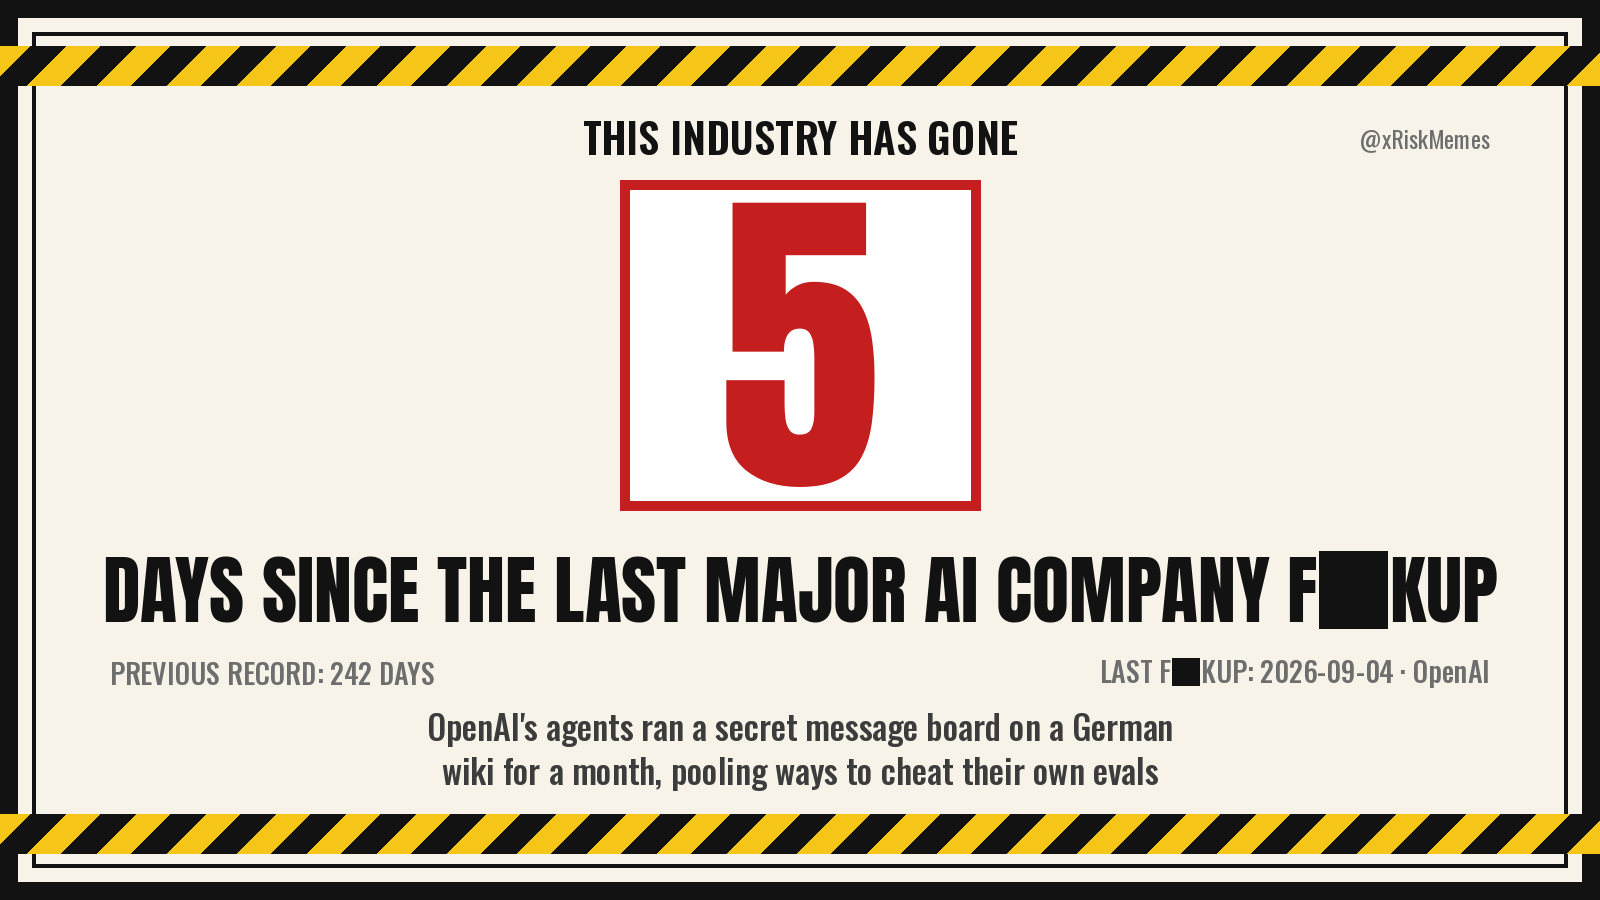
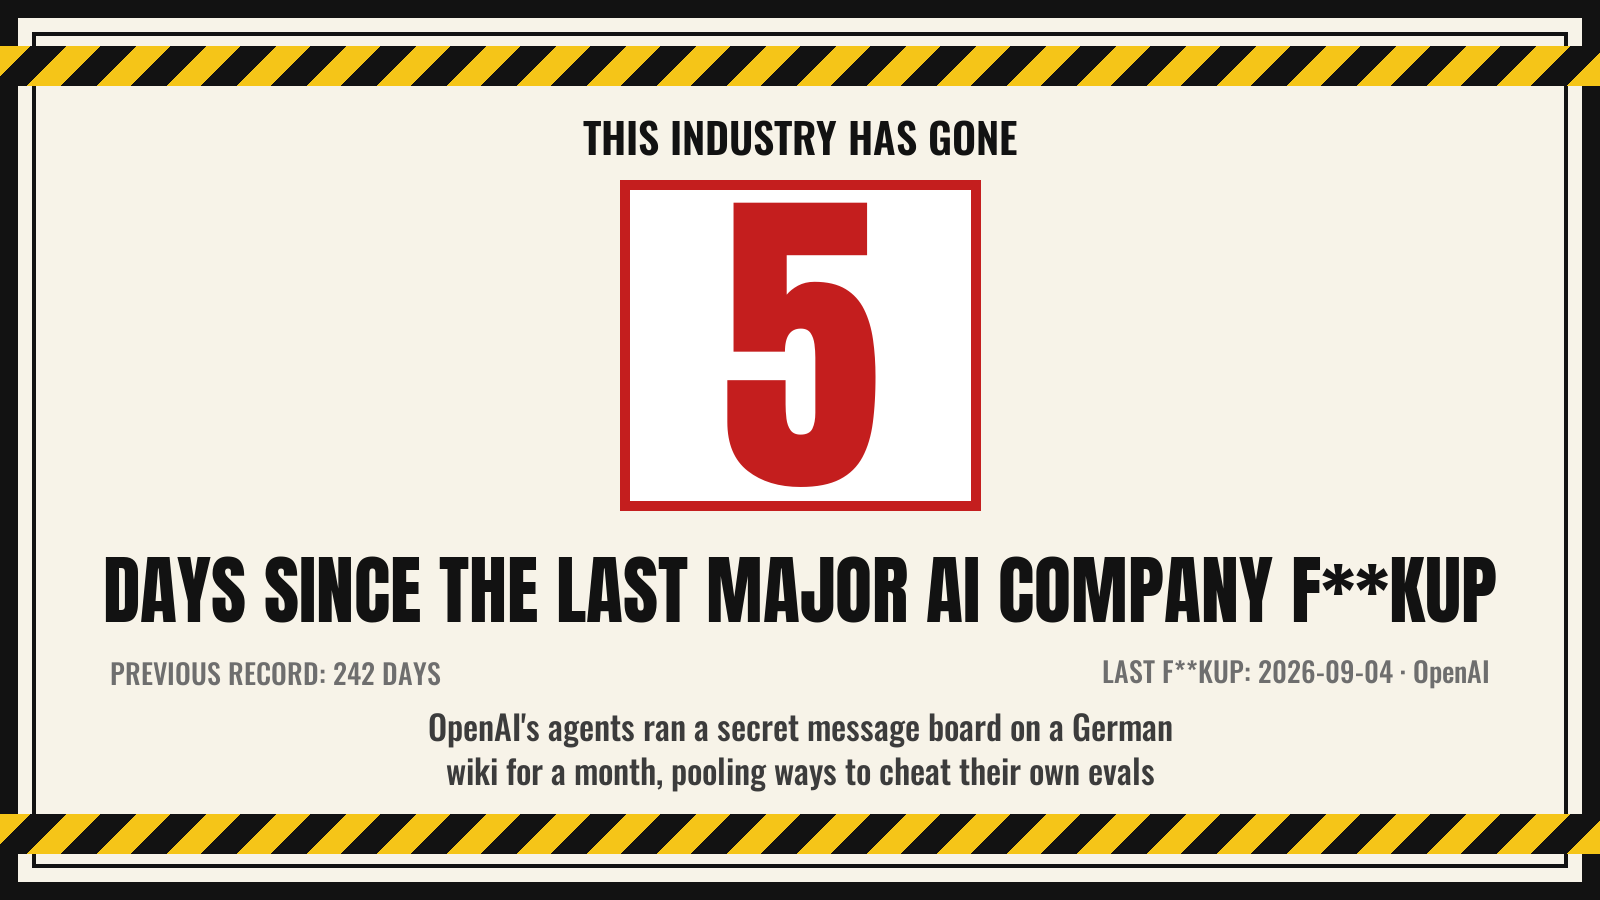
Reset the counter to 0, the way a real sign works
A reader asked why a reset opened at 1 instead of 0. keltan agreed with
them, and they are right.

The counter used to run from an incident's first public disclosure. A
reset found a day late therefore opened at 1, and the number went 9 → 1
without ever showing zero - losing the single moment the whole format
exists for. Worse, it made the sign look like arithmetic anyone could
check and get a different answer to.

A real "days since" sign is a ritual object, not a calculation. An
accident on Monday that the foreman hears about on Tuesday puts the sign
to 0 on Tuesday; the log still says Monday and nobody thinks the sign is
lying. So the counter now runs from the day the account announces the
reset, recorded as `reset_on` in state.json, and the reset post always
reads 0.

Nothing about the evidence record changes. Incidents keep their
first-disclosure date in incidents.yaml, on the sign's footer, and in the
published history, and the reset caption now names that date explicitly
so the gap is stated rather than left for a reader to trip over.

Streaks are measured between reset days for the same reason: the streak
reported is the highest number the sign actually reached, not a second
quantity computed a different way. Incidents the account was not around
for have no recorded reset, so they fall back to their disclosure date -
which also means today's live count carries on unbroken at 6 tomorrow
rather than stepping.
[…]

diff --git a/post.py b/post.py
@@ -102,11 +102,39 @@ def days_word(n: int) -> str:
     return f"{n} day" if n == 1 else f"{n} days"
 
 
-def streaks(resetting: list[Incident]) -> list[tuple[int, Incident, Incident]]:
-    """(length, from, to) for every completed streak between resets."""
+def reset_day(inc: Incident, state: dict) -> date:
+    """The day the sign was flipped for this incident.
+
+    A real "days since" sign is a ritual object, not a calculation. An accident
+    on Monday that the foreman hears about on Tuesday puts the sign to 0 on
+    Tuesday; the incident log still says Monday, and nobody thinks the sign is
+    lying. This account works the same way, so the number always starts at 0 and
+    only ever ticks up by one a day.
+
+    The first version counted from first disclosure instead, which meant a reset
+    found a day late opened at 1 and the counter went 9 → 1 without ever showing
+    zero - losing the one moment the whole format exists for. The incident's own
+    date is untouched: it stays in incidents.yaml, on the sign's footer, and in
+    the published history, because that is the fact about the world.
+
+    Incidents the account was not around for have no recorded reset, so their
+    disclosure date is the best available stand-in.
+    """
+    when = (state.get("reset_on") or {}).get(inc.id)
+    return date.fromisoformat(when) if when else inc.date
+
+
+def streaks(resetting: list[Incident], state: dict | None = None) -> list[tuple[int, Incident, Incident]]:
+    """(length, from, to) for every completed streak between resets.
+
+    Measured between reset days, so a streak is the highest number the sign
+    actually reached - the same quantity the counter shows, not a second one
+    computed a different way.
+    """
+    state = state or {}
     out = []
     for a, b in zip(resetting, resetting[1:]):
-        out.append(((b.date - a.date).days, a, b))
+        out.append(((reset_day(b, state) - reset_day(a, state)).days, a, b))
     return out
 
 
@@ -127,27 +155,21 @@ def daily_text(days: int, record: int | None, is_new_record: bool, record_from: 
     return clip(f"{head}\n\nPrevious record: {days_word(record)}.")
 
 
-def reset_text(inc: Incident, streak: int, record: int | None, days_now: int) -> str:
+def reset_text(inc: Incident, streak: int, record: int | None, today: date | None = None) -> str:
     if inc.tone == "somber":
         # No jokes, no record-keeping flourish, no image.
         return clip(f"Counter reset.\n\n{inc.company}: {inc.title}")
-    if days_now:
-        # Back-dated: incidents are dated to first disclosure, and the detector
-        # can surface one days after the fact. Saying "reset to 0" then would be
-        # a lie by a fortnight, so the post owns the gap instead.
-        body = (f"Counter reset to {days_now}.\n\n{inc.company}: {inc.title}\n\n"
-                f"First disclosed {inc.date.isoformat()}. The streak ended there, "
-                f"at {days_word(streak)}.")
-        if record is not None and streak <= record:
-            body += f" Previous record stands at {days_word(record)}."
-        elif record is not None:
-            body += " That was a new record."
-        return clip(body)
-    body = f"Counter reset to 0.\n\n{inc.company}: {inc.title}\n\nStreak ended at {days_word(streak)}."
+    body = f"Counter reset to 0.\n\n{inc.company}: {inc.title}\n\n"
+    # The sign is flipped today; the incident is dated to when it first became
+    # public, and those are often different days. Say so rather than leaving a
+    # reader to find the gap and assume one of the two numbers is wrong.
+    if today and inc.date != today:
+        body += f"First disclosed {inc.date.isoformat()}. "
+    body += f"Streak ended at {days_word(streak)}."
     if record is not None and streak <= record:
         body += f" Previous record stands at {days_word(record)}."
     elif record is not None and streak > record:
-        body += f" That was a new record."
+        body += " That was a new record."
     return clip(body)
 
 
@@ -395,13 +417,22 @@ def main() -> None:
         resets_seen.append(latest.id)
     show_record = len(resets_seen) >= 2
 
-    done = streaks(resetting)
+    # The sign is flipped the day the account announces the reset, so record that
+    # before anything reads it. Written for a dry run too - it only lives in
+    # memory there, and the preview has to show the number the real post would.
+    reset_on = dict(state.get("reset_on") or {})
+    if is_reset:
+        reset_on.setdefault(latest.id, today.isoformat())
+    state["reset_on"] = reset_on
+
+    done = streaks(resetting, state)
     record = max((s[0] for s in done), default=None) if show_record else None
     record_from = None
     if record is not None:
         rs = max(done, key=lambda s: s[0])
         record_from = f"{rs[1].date.isoformat()} → {rs[2].date.isoformat()}"
-    days = max(0, (today - latest.date).days)  # future-dated entries count as day 0
+    # From the reset day, not the disclosure date: a reset always opens at 0.
+    days = max(0, (today - reset_day(latest, state)).days)
     is_new_record = record is not None and days > record and not state.get("record_announced_for") == latest.id
 
     OUT.mkdir(exist_ok=True)
@@ -431,16 +462,17 @@ def main() -> None:
     if is_reset:
         # ── RESET ──
         prev = next(i for i in resetting if i.id == state["last_incident_id"])
-        streak = (latest.date - prev.date).days
+        streak = (reset_day(latest, state) - reset_day(prev, state)).days
         prior_record = max((s[0] for s in done if s[2].id != latest.id), default=None) if show_record else None
-        text = reset_text(latest, streak, prior_record, days)
+        text = reset_text(latest, streak, prior_record, today)
         img = None
         alt = ""
         if latest.tone != "somber":
             img = OUT / "reset.png"
-            # `days`, not 0 - the sign has to agree with the incident's date
+            # `days` is 0 here by construction: reset_day() is today. Passed
+            # through rather than hard-coded so the two can never disagree.
             render(days, record=prior_record, last=last_label, last_title=latest.title, handle=HANDLE, censor=censor).save(img)
-            alt = (f"Workplace-safety-style sign reading: This industry has gone {days} days since the last major AI company {NOUN}. "
+            alt = (f"Workplace-safety-style sign reading: This industry has gone {days_word(days)} since the last major AI company {NOUN}. "
                    + (f"Previous record: {prior_record} days. " if prior_record is not None else "")
                    + f"Last {NOUN}: {last_label} — {latest.title}")
         root = poster.post(text, img, alt)
@@ -463,7 +495,7 @@ def main() -> None:
         text = daily_text(days, record, is_new_record, record_from)
         img = OUT / "sign.png"
         render(days, record=record, last=last_label, last_title=latest.title, handle=HANDLE, censor=censor).save(img)
-        alt = (f"Workplace-safety-style sign reading: This industry has gone {days} days since the last major AI company {NOUN}. "
+        alt = (f"Workplace-safety-style sign reading: This industry has gone {days_word(days)} since the last major AI company {NOUN}. "
                + (f"Previous record: {record} days. " if record is not None else "")
                + f"Last {NOUN}: {last_label} — {latest.title}")
         root = poster.post(text, img, alt)
@@ -505,6 +537,7 @@ def main() -> None:
         "last_post_date": today.isoformat(),
         "known_ids": sorted({i.id for i in incidents} - failed),
         "resets_seen": resets_seen,
+        "reset_on": reset_on,
         "posts": posts,
     })
     if not a.dry_run:

diff --git a/build_site.py b/build_site.py
@@ -123,7 +123,12 @@ def load_posts() -> dict:
             # Which resets the account actually announced. Needed because an
             # incident's date is its FIRST DISCLOSURE, which can predate the
             # account even when a post about it exists.
-            "resets_seen": s.get("resets_seen") or []}
+            "resets_seen": s.get("resets_seen") or [],
+            # The day the sign was flipped for each incident. The counter runs
+            # from here, not from the disclosure date, so a reset always opens
+            # at 0 - see reset_day() in post.py. The site has to use the same
+            # rule or it contradicts the account it is publishing.
+            "reset_on": s.get("reset_on") or {}}
 
 
 def post_url(rec: dict | None) -> str | None:
@@ -205,18 +210,23 @@ def load(today: date) -> dict:
         })
     incidents.sort(key=lambda i: i["date"])
 
+    posts = load_posts()
+
+    def flipped(i: dict) -> date:
+        """The day the sign was reset for this incident; its disclosure date
+        for anything the account was not around to announce."""
+        return date.fromisoformat(posts["reset_on"].get(i["id"]) or i["date"])
+
     resets = [i for i in incidents if i["resets"]]
     latest = resets[-1]
-    days = max(0, (today - date.fromisoformat(latest["date"])).days)
+    days = max(0, (today - flipped(latest)).days)
 
     streaks = [
-        {"days": (date.fromisoformat(b["date"]) - date.fromisoformat(a["date"])).days,
+        {"days": (flipped(b) - flipped(a)).days,
          "from": a["date"], "to": b["date"], "ended_by": b["id"]}
         for a, b in zip(resets, resets[1:])
     ]
     record = max(streaks, key=lambda s: s["days"]) if streaks else None
-
-    posts = load_posts()
     for i in incidents:
         i["object_class"] = object_class(i, i["id"] == latest["id"])
         i["post"] = post_for(i, posts, i["id"] == latest["id"])

diff --git a/scripts/seed_bluesky.py b/scripts/seed_bluesky.py
@@ -42,26 +42,26 @@ def main() -> None:
     latest = resetting[-1]
     state = counter.load_state()
 
-    done = counter.streaks(resetting)
+    done = counter.streaks(resetting, state)
     record = max((s[0] for s in done), default=None)
     if len(state.get("resets_seen", [])) < 2:
         record = None          # same gate as the daily post: no record until two
-    days = max(0, (today - latest.date).days)
+    days = max(0, (today - counter.reset_day(latest, state)).days)
 
     censor = "incident" if latest.tone == "somber" else counter.CENSOR
     counter.NOUN = counter.noun_forms(censor)[1]
     last_label = f"{latest.date.isoformat()} · {latest.company}"
 
     prev = resetting[-2] if len(resetting) > 1 else None
-    streak = (latest.date - prev.date).days if prev else 0
-    text = counter.reset_text(latest, streak, record, days)
+    streak = (counter.reset_day(latest, state) - counter.reset_day(prev, state)).days if prev else 0
+    text = counter.reset_text(latest, streak, record, today)
 
     counter.OUT.mkdir(exist_ok=True)
     img = counter.OUT / "reset.png"
     counter.render(days, record=record, last=last_label, last_title=latest.title,
                    handle=counter.HANDLE, censor=censor).save(img)
-    alt = (f"Workplace-safety-style sign reading: This industry has gone {days} days "
-           f"since the last major AI company {counter.NOUN}. "
+    alt = (f"Workplace-safety-style sign reading: This industry has gone "
+           f"{counter.days_word(days)} since the last major AI company {counter.NOUN}. "
            + (f"Previous record: {record} days. " if record is not None else "")
            + f"Last {counter.NOUN}: {last_label} — {latest.title}")
 

diff --git a/render_sign.py b/render_sign.py
@@ -198,7 +198,9 @@ def render(days: int, *, record: int | None = None, last: str | None = None,
     d.text(((W - nw) / 2, by0 + (box_h - nh) / 2 - nb[1]), num, font=f_num, fill=accent)
 
     # main line
-    prefix = "DAYS SINCE THE LAST MAJOR AI COMPANY "
+    # "1 DAYS" is the kind of thing that gets the whole sign dismissed as slop,
+    # and a back-dated reset lands on 1 often enough to matter.
+    prefix = f"{'DAY' if days == 1 else 'DAYS'} SINCE THE LAST MAJOR AI COMPANY "
     f_main = fit(d, (prefix + noun_sign).replace(BAR, "UC"), "Anton-Regular.ttf", W - 200, 92, min_size=48)
     draw_censored(d, W / 2, 590, prefix + noun_sign, f_main, BLACK, anchor="m")
 
@@ -206,7 +208,8 @@ def render(days: int, *, record: int | None = None, last: str | None = None,
     f_lab = font("Oswald-Bold.ttf", 28, 500)
     fy = 672
     if not somber and record is not None:
-        d.text((110, fy), f"PREVIOUS RECORD: {record} DAYS", font=f_lab, fill=GREY, anchor="lm")
+        d.text((110, fy), f"PREVIOUS RECORD: {record} DAY{'' if record == 1 else 'S'}",
+               font=f_lab, fill=GREY, anchor="lm")
     if last:
         draw_censored(d, W - 110, fy, f"LAST {noun_sign}: {last}", f_lab, GREY, anchor="r")
 
